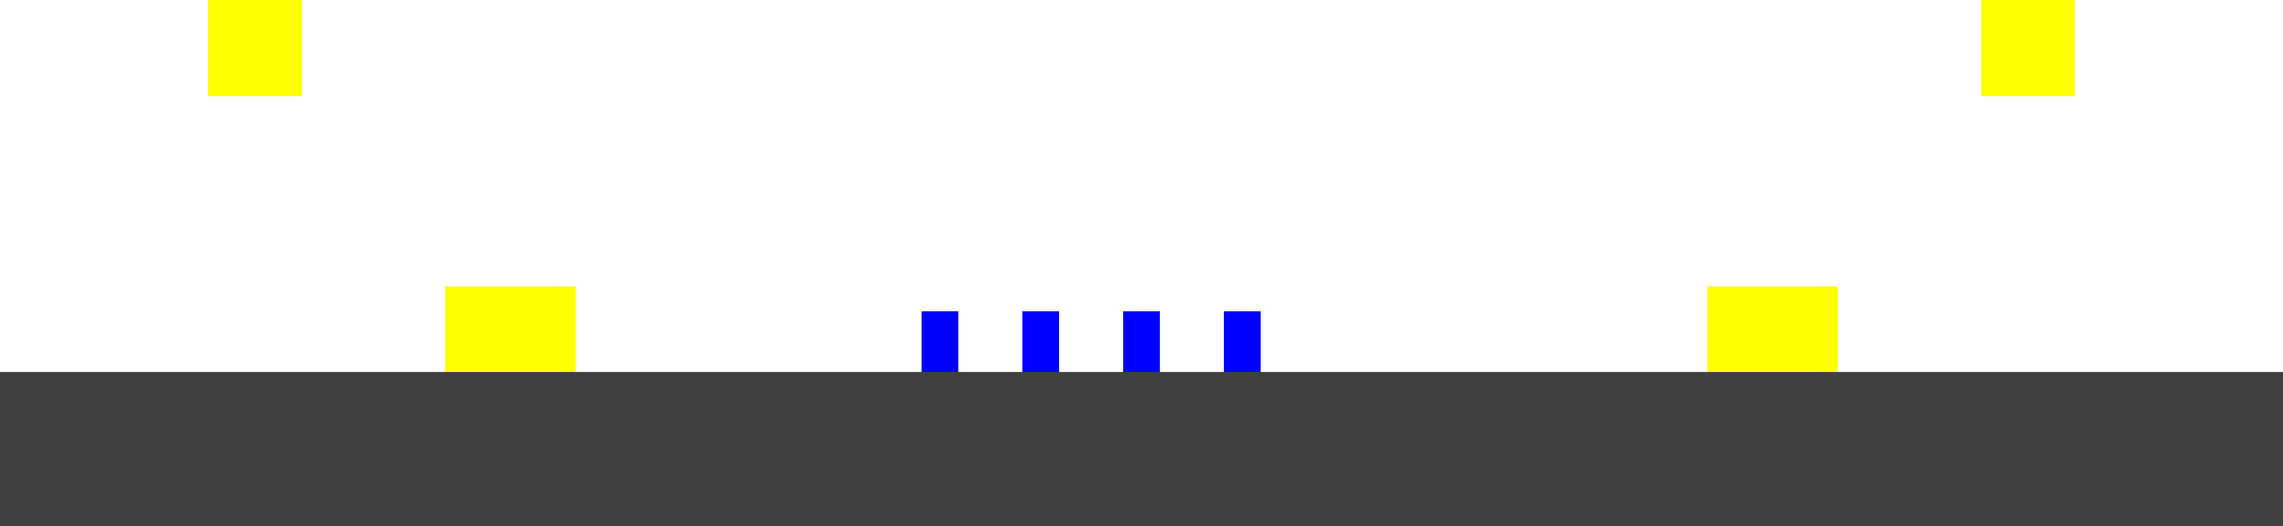
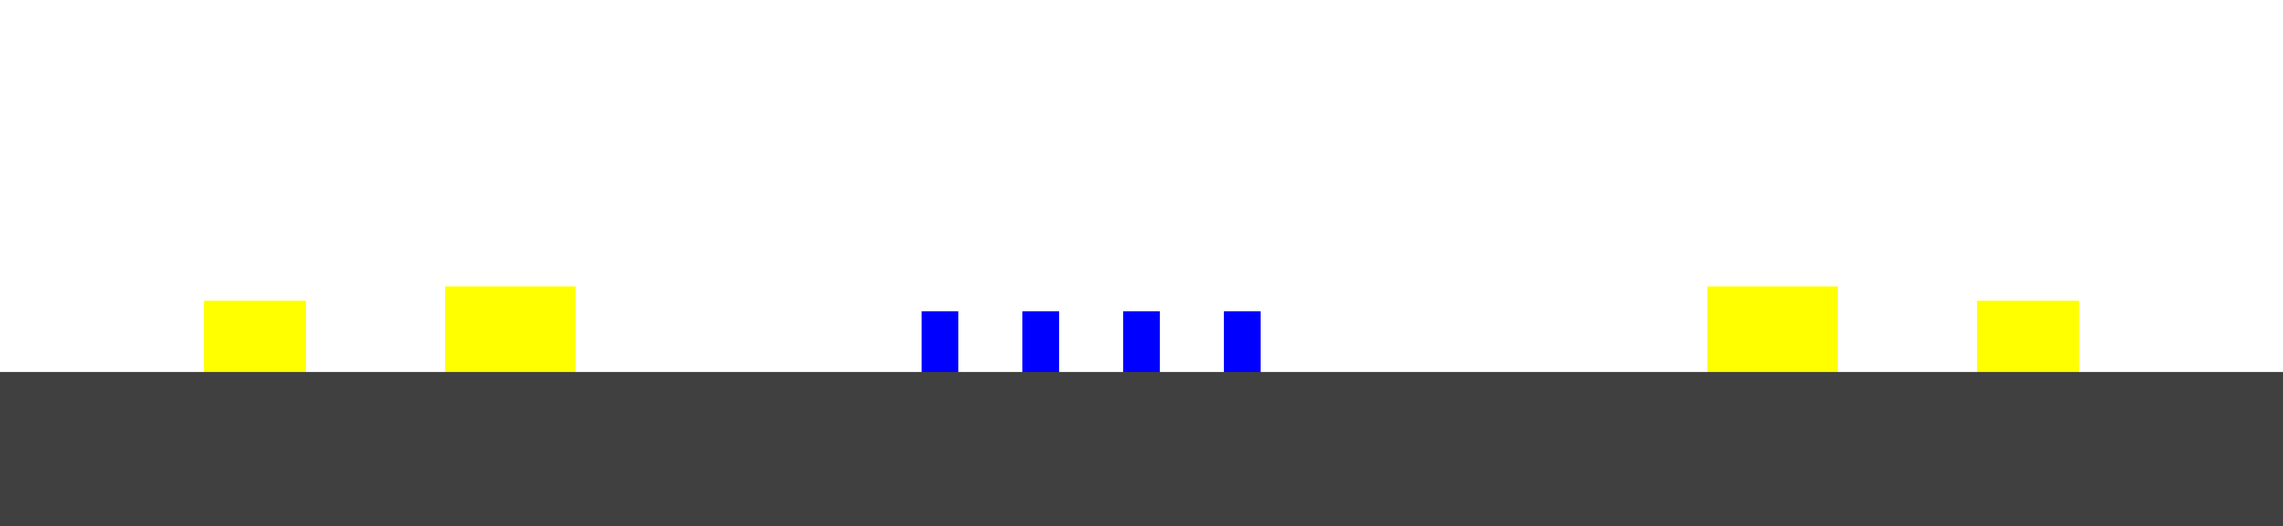
Kor Orsu: Ejder Topu +0..+12 dovulur (cekic oyunu, koruk kumari, dusme, catlama, Anka Muhru, onarim, usta isi); topcu hasari ve cani kademeyle artar; kopruden ucan engerekler kalkti, yerine kucuk yer yilani

diff --git a/eo2/js/ors.js b/eo2/js/ors.js
@@ -1,0 +1,87 @@
+/* Ejder Ocağı 2.0 · Kor Örsü (EO2.ors) · 2026-11-17
+   Usta Kerim'in örsünde terbiyecinin Ejder Topu dövülür. Kurallar ve sayılar js/ors_kural.js'tedir (EO2_ORS); bu dosya ekranı ve çekiç oyununu kurar.
+   AKIŞ: bedel peşin ödenir (kor taşı + altın) → TAV: ibre kor çubuğunda gidip gelir, üç çekiç darbesi indirilir (düğme ya da boşluk tuşu) →
+     örs kararını verir (davul sesi, kıvılcım) → sonuç damgası: tuttu / usta işi (+2) / kayıpsız / kademe düştü / TOP ÇATLADI / Anka korudu.
+   Kumar: "Körüğe yüklen" ibreyi hızlandırır; altın kor daha çok kazandırır, soğuk darbe daha çok götürür.
+   Kayıt: S.ors = { kademe, catlak, deneme, zirve }. Kor taşları Topçu ganimetindedir (S.topcu.ganimet); altın S.gold'dan düşer
+   (tezgâh alışverişiyle aynı yol: js/ag.js keseyi sunucuyla eşitler). Topçunun hasarı ve canı kademeye göre artar (js/topcu.js oyuncuDeger).
+   Girişler: Gece Çarşısı → Usta Kerim'in tezgâhı → "Kor Örsü" · Usta Kerim'le konuşunca "Örse bak". */
+(function () {
+  'use strict';
+  const EO2 = window.EO2, G = EO2 && EO2.game, K = window.EO2_ORS;
+  if (!EO2 || !G || !K) return;
+  const esc_ = s => String(s == null ? '' : s).replace(/[&<>"]/g, c => ({ '&': '&amp;', '<': '&lt;', '>': '&gt;', '"': '&quot;' }[c]));
+  const TAS_AD = { kor_t1: 'Kıvılcım Kor Taşı', kor_t2: 'Harlı Kor Taşı', kor_t3: 'Kadim Magma Taşı', anka_koruma: 'Anka Mühür Taşı' };
+  const BOLGE = { guvenli: ['Güvenli kademe', 'Tutmazsa kayıp yok.'], harli: ['Harlı kademe', 'Tutmazsa bir kademe düşer.'], cehennem: ['Cehennem kademesi', 'Tutmazsa top çatlar!'] };
+  const D = () => { S.ors = S.ors && typeof S.ors === 'object' ? S.ors : {}; const d = S.ors; d.kademe = Math.max(0, Math.min(K.EN_COK, d.kademe | 0)); d.catlak = !!d.catlak; d.deneme = d.deneme | 0; d.zirve = Math.max(d.zirve | 0, d.kademe); return d; };
+  const heybe = () => { S.topcu = S.topcu || {}; S.topcu.ganimet = S.topcu.ganimet || {}; return S.topcu.ganimet; };
+  const var_ = k => Math.max(0, heybe()[k] | 0), ses = (k, v) => { const a = EO2.audio; try { if (a && a[k]) a[k](v); } catch (_) { } };
+  const kaydet = () => { if (typeof saveGame === 'function') saveGame(); if (G.hud) G.hud(); };
+  const yuzde = k => Math.round(k * K.ARTIS * 100);
+  const U = { faz: 'bos', vuruslar: [], koruk: false, anka: false, t0: 0, raf: 0, son: null, kademe0: 0 };   // ekranın geçici durumu
+
+  /* ---------- kurallar: bedel, deneme, onarım ---------- */
+  const yeter = s => !!s && var_(s.tas) >= s.adet && S.gold >= s.altin;
+  const ankaGerek = s => !!s && s.bolge !== 'guvenli';
+  function ode(s, anka) { heybe()[s.tas] = var_(s.tas) - s.adet; S.gold -= s.altin; if (anka) heybe().anka_koruma = var_('anka_koruma') - 1; D().deneme++; kaydet(); }
+  function uygula(r) { const d = D(); d.kademe = r.kademe; d.catlak = r.catlak; d.zirve = Math.max(d.zirve, d.kademe); kaydet(); }
+  /* denemeyi oyunsuz, verilen darbe ve zarla işler (denetim betikleri ve hızlı kip için) */
+  function dene(o) { o = o || {}; const d = D(), s = K.sira(d.kademe); if (d.catlak || !s || !yeter(s)) return null; const anka = !!o.anka && ankaGerek(s) && var_('anka_koruma') > 0;
+    ode(s, anka); const r = K.sonuc(d.kademe, { vuruslar: o.vuruslar || [], koruk: !!o.koruk, anka, zar: typeof o.zar === 'number' ? o.zar : Math.random() * 100 }); uygula(r); return r; }
+  function onar() { const d = D(), O = K.ONARIM; if (!d.catlak || var_(O.tas) < O.adet || S.gold < O.altin) return false; heybe()[O.tas] = var_(O.tas) - O.adet; S.gold -= O.altin; d.kademe = K.onarilmis(d.kademe); d.catlak = false; kaydet(); return true; }
+
+  /* ---------- ekran ---------- */
+  const ibre = () => { const tur = K.TAV[U.koruk ? 'koruk' : 'olagan'].tur, f = ((performance.now() - U.t0) / tur) % 2; return 1 - Math.abs(f - 1); };
+  const resim = k => G.url('img/ui/items/stone_' + k + '.webp');
+  const SONUC = { tuttu: ['Tuttu!', 'iyi'], usta: ['Usta işi!', 'usta'], kayipsiz: ['Tutmadı', 'soluk'], dustu: ['Kademe düştü', 'kotu'], catladi: ['Top çatladı!', 'felaket'], anka: ['Anka korudu', 'anka'] };
+  function ekran() { const d = D(), s = K.sira(d.kademe), h = heybe(), sans0 = s ? K.sans(d.kademe, U.faz === 'tav' ? U.vuruslar : [], U.koruk) : 0, b = s && BOLGE[s.bolge];
+    const taslar = K.TAS.map(k => '<span class="or-tas' + (s && s.tas === k ? ' gerek' + (var_(k) >= s.adet ? '' : ' eksik') : '') + '" title="' + TAS_AD[k] + '"><img alt="" src="' + resim(k) + '"><b>' + var_(k) + '</b><small>' + TAS_AD[k] + '</small></span>').join('');
+    const darbeler = [0, 1, 2].map(i => '<i class="or-darbe ' + (U.vuruslar[i] || '') + '"></i>').join('');
+    let eylem = '';
+    if (U.faz === 'tav') eylem = '<button type="button" class="gbtn altin buyuk or-vur" data-or="vur">Çekici indir<small>' + (3 - U.vuruslar.length) + ' darbe kaldı · boşluk tuşu</small></button>';
+    else if (U.faz === 'karar') eylem = '<p class="or-bekle">Örs kararını veriyor…</p>';
+    else if (U.faz === 'sonuc') eylem = '<button type="button" class="gbtn altin buyuk" data-or="tamam">Devam</button>';
+    else if (d.catlak) { const O = K.ONARIM, ok = var_(O.tas) >= O.adet && S.gold >= O.altin; eylem = '<p class="or-uyari">Top çatlak: kademesi işlemiyor. Onarılınca <b>+' + K.onarilmis(d.kademe) + '</b> kademede döner.</p><button type="button" class="gbtn altin buyuk" data-or="onar" ' + (ok ? '' : 'disabled') + '>Topu onar<small>' + O.altin + ' altın · ' + O.adet + ' ' + TAS_AD[O.tas] + (ok ? '' : ' · yetmiyor') + '</small></button>'; }
+    else if (!s) eylem = '<p class="or-zirve">Zirve kademesi. Bu top artık dövülmez; yalnız parlar.</p>';
+    else eylem = '<div class="or-ayar"><label class="or-sec' + (U.koruk ? ' acik' : '') + '"><input type="checkbox" data-or-sec="koruk" ' + (U.koruk ? 'checked' : '') + '><span><b>Körüğe yüklen</b><small>İbre hızlanır. Altın kor +' + K.TAV.koruk.altin + ', soğuk darbe ' + K.TAV.koruk.soguk + '.</small></span></label>' +
+        (ankaGerek(s) ? '<label class="or-sec' + (U.anka ? ' acik' : '') + (var_('anka_koruma') ? '' : ' yok') + '"><input type="checkbox" data-or-sec="anka" ' + (U.anka ? 'checked' : '') + ' ' + (var_('anka_koruma') ? '' : 'disabled') + '><span><b>Anka Mührü bas</b><small>' + (var_('anka_koruma') ? 'Bir mühür harcanır. Tutmazsa kademe düşmez, top çatlamaz.' : 'Mührün yok. Zindan çarklarından düşer.') + '</small></span></label>' : '') + '</div>' +
+      '<button type="button" class="gbtn altin buyuk" data-or="basla" ' + (yeter(s) ? '' : 'disabled') + '>Dövmeye başla<small>' + s.adet + ' ' + TAS_AD[s.tas] + ' · ' + s.altin + ' altın' + (yeter(s) ? '' : ' · yetmiyor') + '</small></button>';
+    const sn = U.son && SONUC[U.son.olay];
+    return '<div class="or-kok faz-' + U.faz + (d.catlak ? ' catlak' : '') + (s ? ' b-' + s.bolge : ' zirve') + '">' +
+      '<div class="or-sol"><div class="or-top k' + (d.kademe >= 12 ? 3 : d.kademe >= 7 ? 2 : d.kademe >= 4 ? 1 : 0) + '" id="orTop"><img alt="" src="assets/ik/mdl-ors.webp"><b>+' + d.kademe + '</b>' + (d.catlak ? '<em>ÇATLAK</em>' : '') + '</div>' +
+        '<h2>' + esc_(K.AD(d.kademe)) + '</h2><p class="or-etki">' + (d.catlak ? 'Çatlak: artış işlemiyor' : d.kademe ? 'Topçu hasarı ve canı <b>+%' + yuzde(d.kademe) + '</b>' : 'Henüz dövülmedi') + '</p>' +
+        '<div class="or-taslar">' + taslar + '</div><p class="or-kaynak">Kor taşları ve Anka Mührü zindan ganimetinden çıkar.</p></div>' +
+      '<div class="or-sag">' + (s && !d.catlak ? '<div class="or-hedef"><small>Sıradaki kademe</small><b>+' + d.kademe + ' <i>➔</i> +' + (d.kademe + 1) + '</b><span>Hasar ve can +%' + yuzde(d.kademe + 1) + '</span></div>' +
+          '<div class="or-risk"><b>' + b[0] + '</b><span>' + b[1] + '</span></div>' +
+          '<div class="or-sans"><small>Tutma şansı</small><b id="orSans">%' + sans0 + '</b><div class="or-cubuk"><i style="width:' + sans0 + '%"></i></div></div>' : '') +
+        '<div class="or-tav" id="orTav"><div class="or-kor"><i class="sicak"></i><i class="altin"></i><u id="orIbre"></u></div><div class="or-darbeler">' + darbeler + '</div></div>' +
+        '<div class="or-eylem">' + eylem + '</div></div>' +
+      (U.faz === 'sonuc' && sn ? '<div class="or-damga ' + sn[1] + '"><b>' + sn[0] + '</b><span>' + sonucYazi(U.son) + '</span></div>' : '') + '</div>'; }
+  const sonucYazi = r => r.olay === 'usta' ? 'Üç darbe de altın kora indi: top iki kademe birden yükseldi, +' + r.kademe + '.' : r.olay === 'tuttu' ? 'Top +' + r.kademe + ' kademeye yükseldi.' : r.olay === 'kayipsiz' ? 'Metal tutmadı. Güvenli kademede kayıp yok; taş ve altın gitti.' : r.olay === 'dustu' ? 'Metal çatırdadı: top +' + r.kademe + ' kademeye geriledi.' : r.olay === 'anka' ? 'Metal tutmadı ama Anka Mührü topu korudu: +' + r.kademe + ' kademede kaldı.' : 'Örs acımadı. Top çatladı: onarılana dek kademesi işlemez.';
+  function basla() { const d = D(), s = K.sira(d.kademe); if (U.faz !== 'bos' || d.catlak || !yeter(s)) return; U.anka = U.anka && ankaGerek(s) && var_('anka_koruma') > 0; U.kademe0 = d.kademe;
+    ode(s, U.anka); U.faz = 'tav'; U.vuruslar = []; U.t0 = performance.now(); U.son = null; ses('charge', 0.6); G.redraw(); dongu(); }
+  function dongu() { cancelAnimationFrame(U.raf); const adim = () => { const el = document.getElementById('orIbre'); if (!el || U.faz !== 'tav') return; el.style.left = (ibre() * 100) + '%'; U.raf = requestAnimationFrame(adim); }; U.raf = requestAnimationFrame(adim); }
+  function vur() { if (U.faz !== 'tav' || U.vuruslar.length >= 3) return; const v = K.vurus(ibre()); U.vuruslar.push(v); ses(v === 'altin' ? 'chime' : v === 'sicak' ? 'hit' : 'pop');
+    const top = document.getElementById('orTop'), fx = G.fx; if (fx && top) { fx.burst(top, v === 'altin' ? '#ffe08a' : v === 'sicak' ? '#ff9a4a' : '#9aa0b8', v === 'altin' ? 26 : v === 'sicak' ? 14 : 6); if (v !== 'soguk') fx.shake(document.querySelector('.or-kok'), v === 'altin'); }
+    if (U.vuruslar.length < 3) { U.t0 = performance.now() - Math.random() * 400; G.redraw(); dongu(); return; }
+    U.faz = 'karar'; G.redraw(); ses('whoosh'); setTimeout(karar, window.__fastFx ? 60 : 1100); }
+  function karar() { if (U.faz !== 'karar') return; const zar = typeof window.__orsZar === 'number' ? window.__orsZar : Math.random() * 100;
+    const r = K.sonuc(U.kademe0, { vuruslar: U.vuruslar, koruk: U.koruk, anka: U.anka, zar }); uygula(r); U.son = r; U.faz = 'sonuc'; G.redraw();
+    const fx = G.fx, top = document.getElementById('orTop');
+    if (r.tuttu) { ses('win', true); if (fx && top) { fx.burst(top, '#ffe08a', r.usta ? 70 : 40); fx.flash(r.usta ? 'rgba(255,224,138,.5)' : 'rgba(255,240,200,.3)'); if (r.usta) fx.shake(document.querySelector('.or-kok'), true); } if (typeof chron === 'function' && (r.kademe === 7 || r.kademe === 10 || r.kademe === 12)) chron('Ejder Topu +' + r.kademe + ' kademeye dövüldü.'); }
+    else if (r.olay === 'catladi') { ses('boom', 0.9); ses('win', false); if (fx && top) { fx.burst(top, '#ff5a3a', 60); fx.flash('rgba(255,70,40,.4)'); fx.shake(document.querySelector('.or-kok'), true); } }
+    else if (r.olay === 'anka') { ses('chime'); if (fx && top) { fx.burst(top, '#ffb3cc', 36); fx.flash('rgba(255,200,220,.3)'); } }
+    else ses('pop'); }
+  function tamam() { U.faz = 'bos'; U.vuruslar = []; U.son = null; U.anka = false; G.redraw(); }
+  addEventListener('keydown', e => { if (G.ekran && G.ekran() === 'ors' && (e.code === 'Space' || e.key === ' ') && U.faz === 'tav') { e.preventDefault(); e.stopPropagation(); vur(); } }, true);
+
+  G.screen('ors', { k: 'Usta Kerim', t: 'Kor Örsü', cls: 'or', bg: 'bg-pazar', enter() { if (U.faz !== 'tav' && U.faz !== 'karar') { U.faz = 'bos'; U.vuruslar = []; U.son = null; } }, draw(body) {
+    body.innerHTML = ekran();
+    body.querySelectorAll('[data-or]').forEach(b => b.addEventListener('click', () => { const k = b.dataset.or; if (k === 'basla') basla(); else if (k === 'vur') vur(); else if (k === 'tamam') { ses('ui'); tamam(); } else if (k === 'onar') { if (onar()) { ses('chime'); G.toast('Top onarıldı: +' + D().kademe + ' kademe.'); } G.redraw(); } }));
+    body.querySelectorAll('[data-or-sec]').forEach(c => c.addEventListener('change', () => { ses('ui'); U[c.dataset.orSec] = c.checked; G.redraw(); }));
+    if (U.faz === 'tav') dongu();
+  } });
+  /* Usta Kerim'le konuşunca çıkan "Örse bak" ve dünyadaki üretim eylemi örsü açar */
+  (function bagla() { if (!EO2.hooks || !EO2.hooks.act) return setTimeout(bagla, 150); const a0 = EO2.hooks.act; EO2.hooks.act = act => { if (act === 'panel:uretim' || act === 'ors') { G.open('ors'); return true; } return a0 ? a0(act) : false; }; })();
+  EO2.ors = { durum: D, dene, onar, carpan: () => K.carpan(typeof S !== 'undefined' && S ? D() : null), ekranDurumu: () => U };
+})();

diff --git a/eo2/css/cila.css b/eo2/css/cila.css
@@ -363,3 +363,49 @@ html, body, #app.ui2 { overflow: clip; }
 .ui2 .hedef em { display: inline-flex; align-items: center; gap: .3em; min-width: 0; height: auto; padding: .12em .7em .12em .18em; border-radius: 2em; font: 800 1em 'Alegreya Sans', sans-serif; font-style: normal; color: #5a3a12; background: linear-gradient(180deg, #fff7dc, #f0d99a); box-shadow: inset 0 0 0 1.5px rgba(150, 104, 40, .55), 0 .1em .25em rgba(60, 30, 10, .25); transform: none; }
 .ui2 .hedef em::before { content: ""; flex: none; width: 1.75em; height: 1.75em; background: url(../assets/ik/para.webp) center / contain no-repeat; filter: drop-shadow(0 .08em .1em rgba(60, 30, 10, .45)); }
 .ui2 .hedef em::after { content: none; }
+
+/* ---------- Kor Örsü (js/ors.js): solda top ve taşlar, sağda sıradaki kademe, kor çubuğu ve çekiç ---------- */
+.ui2 .scr-b.or { display: grid; grid-template-rows: minmax(0, 1fr); min-height: 0; padding: .6em 1em 1em; }
+.ui2 .or-kok { position: relative; display: grid; grid-template-columns: minmax(0, 22em) minmax(0, 30em); gap: 1.4em; justify-content: center; align-items: center; min-height: 0; height: 100%; }
+.ui2 .or-sol, .ui2 .or-sag { display: grid; gap: .7em; align-content: center; justify-items: center; padding: 1.1em 1.3em; border-radius: 1.4em; background: var(--cam-koyu, rgba(14, 20, 48, .86)); box-shadow: var(--frame); max-height: 100%; min-height: 0; overflow-y: auto; }
+.ui2 .or-sag { justify-items: stretch; }
+.ui2 .or-top { position: relative; width: 11em; height: 11em; display: grid; place-items: center; border-radius: 50%; background: radial-gradient(circle at 50% 60%, rgba(255, 140, 50, .55), rgba(60, 20, 10, .2) 62%, transparent 72%); }
+.ui2 .or-top img { width: 8em; height: 8em; object-fit: contain; filter: drop-shadow(0 .5em .7em rgba(4, 6, 16, .7)); }
+.ui2 .or-top b { position: absolute; right: .2em; bottom: .4em; padding: .05em .45em; border-radius: 1em; font: 800 1.9em var(--f-ui); color: #3a2206; background: linear-gradient(180deg, #fff3c4, #f0b84a); box-shadow: 0 0 0 2px rgba(8, 10, 20, .85), 0 .2em .5em rgba(4, 6, 16, .5); }
+.ui2 .or-top.k1 { background: radial-gradient(circle at 50% 60%, rgba(255, 170, 60, .7), rgba(90, 30, 10, .25) 62%, transparent 74%); } .ui2 .or-top.k2 { background: radial-gradient(circle at 50% 60%, rgba(255, 110, 40, .85), rgba(140, 30, 10, .35) 62%, transparent 76%); animation: or-kor 1.6s ease-in-out infinite; }
+.ui2 .or-top.k3 { background: radial-gradient(circle at 50% 60%, rgba(255, 220, 120, .95), rgba(255, 90, 30, .5) 55%, transparent 78%); animation: or-kor 1.1s ease-in-out infinite; }
+@keyframes or-kor { 50% { filter: brightness(1.25); transform: scale(1.03); } }
+.ui2 .or-top em { position: absolute; left: 50%; top: 42%; transform: translate(-50%, -50%) rotate(-12deg); padding: .1em .6em; font: 800 1.1em var(--f-ui); font-style: normal; letter-spacing: .12em; color: #fff; background: #b0281a; border-radius: .3em; box-shadow: 0 0 0 2px #fff, 0 .2em .5em rgba(0, 0, 0, .5); }
+.ui2 .or-kok.catlak .or-top img { filter: grayscale(.8) brightness(.6); }
+.ui2 .or-sol h2 { margin: 0; font: 800 1.5em var(--f-ui); color: #f6d98a; text-align: center; } .ui2 .or-etki { margin: 0; font: 500 1em var(--f-ui); color: #e9ecfb; text-align: center; } .ui2 .or-etki b { color: #b8f0a0; }
+.ui2 .or-taslar { display: grid; grid-template-columns: repeat(4, minmax(0, 1fr)); gap: .4em; width: 100%; }
+.ui2 .or-tas { display: grid; justify-items: center; gap: .1em; padding: .35em .2em; border-radius: .8em; background: rgba(8, 14, 40, .55); box-shadow: inset 0 0 0 1px rgba(160, 190, 255, .25); text-align: center; }
+.ui2 .or-tas img { width: 2.4em; height: 2.4em; object-fit: contain; } .ui2 .or-tas b { font: 800 1.05em var(--f-ui); } .ui2 .or-tas small { font: 500 .62em/1.15 var(--f-ui); color: #cfd8f6; }
+.ui2 .or-tas.gerek { box-shadow: inset 0 0 0 2px #ffe08a, 0 0 .8em rgba(255, 215, 106, .45); } .ui2 .or-tas.gerek.eksik { box-shadow: inset 0 0 0 2px #ff9a8a; } .ui2 .or-tas.gerek.eksik b { color: #ffb0a0; }
+.ui2 .or-hedef { display: grid; justify-items: center; gap: .1em; } .ui2 .or-hedef small, .ui2 .or-sans small { font: 700 .78em var(--f-ui); letter-spacing: .12em; text-transform: uppercase; color: #f6d98a; }
+.ui2 .or-hedef b { font: 800 2.1em var(--f-ui); } .ui2 .or-hedef b i { font-style: normal; color: #f6d98a; } .ui2 .or-hedef span { font: 500 .95em var(--f-ui); color: #b8f0a0; }
+.ui2 .or-risk { display: grid; justify-items: center; padding: .4em .8em; border-radius: .9em; background: rgba(60, 160, 90, .22); box-shadow: inset 0 0 0 1px rgba(140, 240, 170, .5); text-align: center; } .ui2 .or-risk b { font: 700 1em var(--f-ui); } .ui2 .or-risk span { font: 500 .88em var(--f-ui); }
+.ui2 .b-harli .or-risk { background: rgba(200, 130, 30, .25); box-shadow: inset 0 0 0 1px rgba(255, 200, 110, .6); } .ui2 .b-cehennem .or-risk { background: rgba(190, 40, 30, .32); box-shadow: inset 0 0 0 1.5px rgba(255, 120, 100, .8); animation: or-nabiz 1.2s ease-in-out infinite; }
+@keyframes or-nabiz { 50% { box-shadow: inset 0 0 0 1.5px rgba(255, 120, 100, .9), 0 0 1.2em rgba(255, 70, 40, .55); } }
+.ui2 .or-sans { display: grid; grid-template-columns: 1fr auto; align-items: center; gap: .2em .6em; } .ui2 .or-sans b { font: 800 1.5em var(--f-ui); color: #fff; } .ui2 .or-cubuk { grid-column: 1 / -1; height: .6em; border-radius: 1em; background: rgba(8, 14, 40, .7); overflow: hidden; } .ui2 .or-cubuk i { display: block; height: 100%; border-radius: 1em; background: linear-gradient(90deg, #ff6a3a, #ffd24a, #8ff0a4); transition: width .25s; }
+.ui2 .or-tav { display: grid; gap: .5em; opacity: .45; transition: opacity .2s; } .ui2 .faz-tav .or-tav, .ui2 .faz-karar .or-tav, .ui2 .faz-sonuc .or-tav { opacity: 1; }
+.ui2 .or-kor { position: relative; height: 2.2em; border-radius: 1.1em; background: linear-gradient(90deg, #232a4a, #3a2a3a 28%, #7a2a1a 50%, #3a2a3a 72%, #232a4a); box-shadow: inset 0 0 0 2px rgba(8, 10, 20, .85), inset 0 0 0 3.5px rgba(255, 226, 150, .3); overflow: hidden; }
+.ui2 .or-kor .sicak { position: absolute; top: 0; bottom: 0; left: 30%; width: 40%; background: linear-gradient(90deg, rgba(255, 140, 50, .35), rgba(255, 140, 50, .7), rgba(255, 140, 50, .35)); }
+.ui2 .or-kor .altin { position: absolute; top: 0; bottom: 0; left: 42%; width: 16%; background: linear-gradient(180deg, #fff3c4, #ffc84a); box-shadow: 0 0 1em rgba(255, 215, 106, .9); }
+.ui2 .or-kor u { position: absolute; top: -.2em; bottom: -.2em; left: 0; width: .45em; margin-left: -.22em; border-radius: .3em; background: #fff; box-shadow: 0 0 0 2px rgba(8, 10, 20, .9), 0 0 .8em #fff; text-decoration: none; }
+.ui2 .or-darbeler { display: flex; justify-content: center; gap: .6em; } .ui2 .or-darbe { width: 1.5em; height: 1.5em; border-radius: 50%; background: rgba(8, 14, 40, .7); box-shadow: inset 0 0 0 2px rgba(160, 190, 255, .35); }
+.ui2 .or-darbe.altin { background: radial-gradient(circle at 40% 30%, #fff3c4, #f0b84a); box-shadow: 0 0 .9em rgba(255, 215, 106, .9); } .ui2 .or-darbe.sicak { background: radial-gradient(circle at 40% 30%, #ffc08a, #e0662a); } .ui2 .or-darbe.soguk { background: #5a6280; }
+.ui2 .or-eylem { display: grid; gap: .5em; } .ui2 .or-eylem .gbtn { display: grid; justify-items: center; gap: .1em; height: auto; min-height: 3.2em; padding: .5em 1em; white-space: normal; line-height: 1.15; } .ui2 .or-eylem .gbtn small { display: block; white-space: normal; }
+.ui2 .or-vur { animation: or-nabiz2 .7s ease-in-out infinite; } @keyframes or-nabiz2 { 50% { transform: scale(1.03); } }
+.ui2 .or-ayar { display: grid; gap: .35em; } .ui2 .or-sec { display: grid; grid-template-columns: auto 1fr; gap: .5em; align-items: center; padding: .35em .6em; border-radius: .8em; background: rgba(8, 14, 40, .5); box-shadow: inset 0 0 0 1px rgba(160, 190, 255, .25); cursor: pointer; }
+.ui2 .or-sec input { width: 1.2em; height: 1.2em; } .ui2 .or-sec b { display: block; font: 700 .95em var(--f-ui); } .ui2 .or-sec small { font: 500 .78em/1.2 var(--f-ui); color: #cfd8f6; } .ui2 .or-sec.acik { box-shadow: inset 0 0 0 2px #ffe08a; } .ui2 .or-sec.yok { opacity: .6; cursor: default; }
+.ui2 .or-bekle, .ui2 .or-zirve, .ui2 .or-uyari { margin: 0; text-align: center; font: 600 1em var(--f-ui); } .ui2 .or-bekle { color: #f6d98a; animation: or-nabiz2 .5s ease-in-out infinite; } .ui2 .or-uyari { color: #ffc4b0; }
+.ui2 .or-kaynak { margin: 0; font: 500 .78em var(--f-ui); color: #cfd8f6; text-align: center; grid-column: 1 / -1; }
+.ui2 .or-damga { position: absolute; left: 50%; top: 24%; z-index: 4; transform: translate(-50%, -50%) rotate(-6deg); display: grid; justify-items: center; gap: .2em; max-width: 24em; padding: .7em 1.4em; border-radius: .6em; text-align: center; background: rgba(14, 20, 48, .94); box-shadow: 0 0 0 3px #f6d98a, 0 0 0 6px rgba(8, 10, 20, .85), 0 .6em 2em rgba(0, 0, 0, .6); animation: or-damga .45s cubic-bezier(.2, 1.6, .4, 1) both; pointer-events: none; }
+.ui2 .or-damga b { font: 800 2.2em var(--f-ui); color: #f6d98a; } .ui2 .or-damga span { font: 500 .95em/1.3 var(--f-ui); color: #e9ecfb; }
+.ui2 .or-damga.usta { box-shadow: 0 0 0 3px #fff3c4, 0 0 0 6px rgba(8, 10, 20, .85), 0 0 3em rgba(255, 215, 106, .9); } .ui2 .or-damga.usta b { color: #fff3c4; }
+.ui2 .or-damga.kotu b, .ui2 .or-damga.felaket b { color: #ff9a8a; } .ui2 .or-damga.felaket { box-shadow: 0 0 0 3px #ff6a4a, 0 0 0 6px rgba(8, 10, 20, .85), 0 0 3em rgba(255, 70, 40, .8); } .ui2 .or-damga.anka b { color: #ffb3cc; } .ui2 .or-damga.soluk b { color: #cfd8f6; }
+@keyframes or-damga { from { transform: translate(-50%, -50%) rotate(-6deg) scale(2.2); opacity: 0; } }
+.ui2 .pz-ors { position: absolute; right: 0; top: 0; z-index: 3; display: grid; justify-items: center; gap: .1em; height: auto; padding: .45em 1.1em; line-height: 1.15; } .ui2 .pz-ors small { display: block; }
+@media (max-width: 760px), (max-aspect-ratio: 1/1) { .ui2 .or-kok { grid-template-columns: minmax(0, 1fr); grid-template-rows: auto minmax(0, 1fr); align-items: stretch; gap: .6em; } .ui2 .or-top { width: 6.5em; height: 6.5em; } .ui2 .or-top img { width: 4.6em; height: 4.6em; } .ui2 .or-top b { font-size: 1.3em; } .ui2 .or-sol { grid-template-columns: auto 1fr; justify-items: start; } .ui2 .or-taslar { grid-column: 1 / -1; } .ui2 .or-sol h2, .ui2 .or-etki { text-align: left; } }
+@media (max-height: 520px) { .ui2 .or-kok { grid-template-columns: minmax(0, 15em) minmax(0, 1fr); gap: .7em; } .ui2 .or-sol, .ui2 .or-sag { padding: .5em .7em; gap: .35em; font-size: .86em; } .ui2 .or-top { width: 6em; height: 6em; } .ui2 .or-top img { width: 4.2em; height: 4.2em; } .ui2 .or-top b { font-size: 1.2em; } .ui2 .or-tas small { display: none; } .ui2 .or-hedef b { font-size: 1.4em; } }

diff --git a/eo2/js/ors_kural.js b/eo2/js/ors_kural.js
@@ -1,0 +1,47 @@
+/* Ejder Ocağı 2.0 · Kor Örsü kuralları (2026-11-17)
+   Kullanıcı: "örs sistemini baştan, eğlenceli, heyecanlı ve riskli olacak şekilde kur."
+   Yalnız kural ve sayı; ekran js/ors.js'tedir. Dosya hem oyunda hem testte (Node) yüklenir.
+
+   NE DÖVÜLÜR: terbiyecinin Ejder Topu. Kademe +0'dan +12'ye çıkar; her kademe topçunun hasarını ve canını yüzde 2 artırır
+   (zindan, düello, Takım Meydanı). Top çatlamışsa bu artış işlemez.
+
+   BEDEL (eski oyunun birinci kademe eşya tablosuyla aynı sayılar): her denemede kor taşı ve altın peşin ödenir; deneme tutmasa da geri gelmez.
+   BÖLGELER:
+     +0 → +4   Güvenli   tutmazsa kayıp yok
+     +4 → +7   Harlı     tutmazsa bir kademe düşer
+     +7 → +12  Cehennem  tutmazsa top ÇATLAR: artış durur; onarılınca dört kademe geride döner
+   ANKA MÜHÜR TAŞI: denemeye basılırsa (bir taş harcanır) tutmayan denemede kademe düşmez, top çatlamaz.
+   TAV (çekiç oyunu): üç çekiç darbesi. Her darbe ibrenin durduğu yere göre şansı değiştirir:
+     altın kor +5 · sıcak +2 · soğuk −3.   Körüğe yüklenilirse ibre hızlanır, altın kor +9 olur, soğuk −6 (kumar).
+   USTA İŞİ: üç darbe de altın kora denk gelir ve deneme tutarsa kademe bir yerine İKİ artar (bölge sınırını aşabilir, +12'yi aşamaz).
+   ONARIM: çatlak top altın ve kıvılcım kor taşıyla onarılır; kademe dört düşer (en az +4'e, çünkü çatlama yalnız +7 ve üstünde olur). */
+(function (kok) {
+  'use strict';
+  const EN_COK = 12, ARTIS = 0.02;
+  const TAS = ['kor_t1', 'kor_t2', 'kor_t3', 'anka_koruma'];
+  /* sıradaki denemenin bedeli, tabandaki şansı ve bölgesi; +12'de null */
+  function sira(k) { k = Math.max(0, Math.min(EN_COK, k | 0)); if (k >= EN_COK) return null;
+    if (k < 4) return { kademe: k, tas: 'kor_t1', adet: [3, 6, 10, 16][k], altin: [40, 80, 140, 220][k], sans: [100, 95, 90, 82][k], bolge: 'guvenli' };
+    if (k < 7) return { kademe: k, tas: 'kor_t2', adet: [5, 9, 14][k - 4], altin: [320, 480, 680][k - 4], sans: [70, 58, 46][k - 4], bolge: 'harli' };
+    return { kademe: k, tas: k === 7 ? 'kor_t2' : 'kor_t3', adet: k === 7 ? 20 : [6, 11, 18, 28][k - 8], altin: [950, 1300, 1800, 2500, 3500][k - 7], sans: [36, 26, 18, 12, 8][k - 7], bolge: 'cehennem' }; }
+  const ONARIM = { altin: 600, tas: 'kor_t1', adet: 12, geri: 4, taban: 4 };
+  const TAV = { olagan: { altin: 5, sicak: 2, soguk: -3, tur: 640 }, koruk: { altin: 9, sicak: 2, soguk: -6, tur: 400 } };
+  const ALTIN = [0.42, 0.58], SICAK = [0.30, 0.70];   // ibrenin 0–1 arasındaki yeri
+  const vurus = yer => (yer >= ALTIN[0] && yer <= ALTIN[1] ? 'altin' : yer >= SICAK[0] && yer <= SICAK[1] ? 'sicak' : 'soguk');
+  const tavPuani = (vuruslar, koruk) => vuruslar.reduce((t, v) => t + TAV[koruk ? 'koruk' : 'olagan'][v], 0);
+  const sans = (k, vuruslar, koruk) => { const s = sira(k); return s ? Math.max(1, Math.min(100, s.sans + tavPuani(vuruslar || [], koruk))) : 0; };
+  /* denemenin sonucu. zar: 0–100 arası sayı (şanstan küçükse tutar). Dönen: { tuttu, usta, kademe, catlak, anka (harcandı mı), olay } */
+  function sonuc(k, o) { const s = sira(k), v = (o && o.vuruslar) || []; if (!s) return null;
+    const esik = sans(k, v, o && o.koruk), tuttu = (o && o.zar) < esik, usta = tuttu && v.length === 3 && v.every(x => x === 'altin');
+    if (tuttu) return { tuttu: true, usta, kademe: Math.min(EN_COK, k + (usta ? 2 : 1)), catlak: false, anka: false, sans: esik, olay: usta ? 'usta' : 'tuttu' };
+    if (s.bolge === 'guvenli') return { tuttu: false, usta: false, kademe: k, catlak: false, anka: false, sans: esik, olay: 'kayipsiz' };
+    if (o && o.anka) return { tuttu: false, usta: false, kademe: k, catlak: false, anka: true, sans: esik, olay: 'anka' };
+    if (s.bolge === 'harli') return { tuttu: false, usta: false, kademe: k - 1, catlak: false, anka: false, sans: esik, olay: 'dustu' };
+    return { tuttu: false, usta: false, kademe: k, catlak: true, anka: false, sans: esik, olay: 'catladi' }; }
+  const onarilmis = k => Math.max(ONARIM.taban, k - ONARIM.geri);
+  /* topçu değerlerine çarpan: çatlak top artış vermez */
+  const carpan = d => 1 + (d && !d.catlak ? Math.max(0, Math.min(EN_COK, d.kademe | 0)) : 0) * ARTIS;
+  const AD = k => (k >= 12 ? 'Kadim Magma Topu' : k >= 10 ? 'Zümrüt Ejder Topu' : k >= 7 ? 'Kor Ejder Topu' : k >= 4 ? 'Harlı Ejder Topu' : 'Ejder Topu');
+  const K = { EN_COK, ARTIS, TAS, ONARIM, TAV, ALTIN, SICAK, sira, vurus, tavPuani, sans, sonuc, onarilmis, carpan, AD };
+  if (typeof module !== 'undefined' && module.exports) module.exports = K; else kok.EO2_ORS = K;
+})(typeof window !== 'undefined' ? window : this);

diff --git a/eo2/js/arena_veri.js b/eo2/js/arena_veri.js
@@ -4,7 +4,7 @@
   'use strict';
   const ARENA = {
     "zumrut-defile": {"tur":"pve","ad":"Şahmeran'ın Defilesi","alt":"Yılan Kraliçe yükseltide bekliyor","ipucu":"Zemin kırılmaz. Tacına nişan al. Durduğun yere ok yağdırır: her tur yerini değiştir, sonra ateş et.","tema":"sirca","ortam":"spor","sahne":{"ust":"#07201a","alt":"#0a2a20"},"katman":[{"src":"arenalar/zumrut-defile/sahne.webp","z":-1}],"ppu":70,"en":63.7,"boy":17.73,"taban":7.375,"px":[4459,1241],"kameraBoy":6,"kamera":null,"oyuncu":[{"x":3,"y":11.06,"h":1.7,"w":1.03},{"x":5.8,"y":11.06,"h":1.7,"w":1.03},{"x":8.61,"y":11.06,"h":1.7,"w":1.03},{"x":11.43,"y":11.06,"h":1.7,"w":1.03}],"dusman":[{"tip":"zs_agir","ad":"Sırça Taht Muhafızı","hp":640,"fizik":true,"hayalet":false,"x":29.23,"y":11.06,"h":2.4,"w":3.71},{"tip":"zs_agir","ad":"Sırça Taht Muhafızı","hp":640,"fizik":true,"hayalet":false,"x":38.97,"y":11.06,"h":2.4,"w":3.71}],"boss":{"tip":"sahmeran_v3","ad":"Yılan Kraliçe Şahmeran","unvan":"Zümrüt Saray'ın ebedi hükümdarı","hp":3600,"x":51.71,"y":13.03,"h":6.8,"w":6},"maske":[0,30208,2,510,0,2,2,510,0,2,2,510,0,2,2,510,0,2,2,510,0,2,2,510,0,2,2,510,0,2,2,510,0,2,2,510,0,2,2,510,0,2,2,510,0,2,2,510,0,2,2,510,0,2,2,510,0,2,2,510,0,2,2,510,0,2,2,510,0,2,2,510,0,2,2,510,0,2,2,510,0,2,2,510,0,2,2,510,0,2,2,510,0,2,2,510,0,2,2,510,0,2,2,510,0,2,2,510,0,2,2,510,0,2,2,510,0,362,2,150,0,363,2,149,0,364,2,148,0,365,2,147,0,366,2,146,0,367,2,145,0,369,2,143,0,370,2,142,0,371,2,141,0,372,2,140,0,373,2,139,0,374,2,138,0,376,2,136,0,377,2,135,0,378,2,134,0,379,2,133,0,69634]},
-    "zumrut-kopru": {"tur":"pve","ad":"Zümrüt Saray Köprüsü","alt":"Yılanlar iki yandan geliyor","ipucu":"Yılanlar iki yandan gelir. Fareyi çevirdiğin yana döner, o yana ateş edersin. Önce yaklaşanı vur.","tema":"sirca","ortam":"spor","sahne":{"ust":"#6fafFd","alt":"#e8f2fb"},"katman":[{"src":"arenalar/zumrut-kopru/sahne.webp","z":-1}],"ppu":87.647,"en":63.85,"boy":14.73,"taban":6.625,"px":[5596,1291],"kameraBoy":6,"kamera":null,"oyuncu":[{"x":26.29,"y":10.94,"h":1.7,"w":1.03},{"x":29.11,"y":10.94,"h":1.7,"w":1.03},{"x":31.92,"y":10.94,"h":1.7,"w":1.03},{"x":34.74,"y":10.94,"h":1.7,"w":1.03}],"dusman":[{"tip":"viper","ad":"Uçan Sırça Engereği","hp":800,"fizik":false,"hayalet":false,"x":7.13,"y":18.66,"h":2.69,"w":2.62},{"tip":"zs_vurucu","ad":"Bronz Engerek Muhafızı","hp":760,"fizik":true,"hayalet":false,"x":14.27,"y":10.94,"h":2.4,"w":3.65},{"tip":"zs_vurucu","ad":"Bronz Engerek Muhafızı","hp":760,"fizik":true,"hayalet":false,"x":49.57,"y":10.94,"h":2.4,"w":3.65},{"tip":"viper","ad":"Uçan Sırça Engereği","hp":800,"fizik":false,"hayalet":false,"x":56.72,"y":18.66,"h":2.69,"w":2.62}],"boss":null,"maske":[0,27136,2,511,0,1,2,511,0,1,2,511,0,1,2,511,0,1,2,511,0,1,2,511,0,1,2,511,0,1,2,511,0,1,2,511,0,1,2,511,0,1,2,511,0,1,2,511,0,1,2,511,0,1,2,511,0,1,2,511,0,1,2,511,0,1,2,511,0,1,2,511,0,1,2,511,0,1,2,511,0,1,2,511,0,1,2,511,0,1,2,511,0,1,2,511,0,1,2,511,0,1,2,511,0,1,2,511,0,1,2,511,0,1,2,511,0,1,2,511,0,1,2,511,0,1,2,511,0,1,2,511,0,1,2,511,0,1,2,511,0,77825]}
+    "zumrut-kopru": {"tur":"pve","ad":"Zümrüt Saray Köprüsü","alt":"Yılanlar iki yandan geliyor","ipucu":"Yılanlar iki yandan gelir. Fareyi çevirdiğin yana döner, o yana ateş edersin. Önce yaklaşanı vur.","tema":"sirca","ortam":"spor","sahne":{"ust":"#6fafFd","alt":"#e8f2fb"},"katman":[{"src":"arenalar/zumrut-kopru/sahne.webp","z":-1}],"ppu":87.647,"en":63.85,"boy":14.73,"taban":6.625,"px":[5596,1291],"kameraBoy":6,"kamera":null,"oyuncu":[{"x":26.29,"y":10.94,"h":1.7,"w":1.03},{"x":29.11,"y":10.94,"h":1.7,"w":1.03},{"x":31.92,"y":10.94,"h":1.7,"w":1.03},{"x":34.74,"y":10.94,"h":1.7,"w":1.03}],"dusman":[{"tip":"zs_kucuk","ad":"Sırça Engerek","hp":800,"fizik":true,"hayalet":false,"x":7.13,"y":10.94,"h":2,"w":2.85},{"tip":"zs_vurucu","ad":"Bronz Engerek Muhafızı","hp":760,"fizik":true,"hayalet":false,"x":14.27,"y":10.94,"h":2.4,"w":3.65},{"tip":"zs_vurucu","ad":"Bronz Engerek Muhafızı","hp":760,"fizik":true,"hayalet":false,"x":49.57,"y":10.94,"h":2.4,"w":3.65},{"tip":"zs_kucuk","ad":"Sırça Engerek","hp":800,"fizik":true,"hayalet":false,"x":56.72,"y":10.94,"h":2,"w":2.85}],"boss":null,"maske":[0,27136,2,511,0,1,2,511,0,1,2,511,0,1,2,511,0,1,2,511,0,1,2,511,0,1,2,511,0,1,2,511,0,1,2,511,0,1,2,511,0,1,2,511,0,1,2,511,0,1,2,511,0,1,2,511,0,1,2,511,0,1,2,511,0,1,2,511,0,1,2,511,0,1,2,511,0,1,2,511,0,1,2,511,0,1,2,511,0,1,2,511,0,1,2,511,0,1,2,511,0,1,2,511,0,1,2,511,0,1,2,511,0,1,2,511,0,1,2,511,0,1,2,511,0,1,2,511,0,1,2,511,0,1,2,511,0,1,2,511,0,77825]}
   };
   if (typeof module !== 'undefined' && module.exports) module.exports = ARENA; else kok.EO2_ARENA = ARENA;
 })(typeof window !== 'undefined' ? window : this);

diff --git a/tests/ors_kural.test.js b/tests/ors_kural.test.js
@@ -1,0 +1,45 @@
+'use strict';
+// Kor Örsü kuralları (eo2/js/ors_kural.js): bedeller, bölgeler, tav puanı, sonuçlar, onarım, çarpan.
+const test = require('node:test'), assert = require('node:assert/strict');
+const K = require('../eo2/js/ors_kural.js');
+
+test('bedel ve şans tablosu: on iki kademe, üç bölge; +12 zirvedir', () => {
+  assert.equal(K.sira(12), null);
+  const hepsi = Array.from({ length: 12 }, (_, k) => K.sira(k));
+  assert.deepEqual(hepsi.map(s => s.bolge), ['guvenli', 'guvenli', 'guvenli', 'guvenli', 'harli', 'harli', 'harli', 'cehennem', 'cehennem', 'cehennem', 'cehennem', 'cehennem']);
+  assert.deepEqual(hepsi.map(s => s.sans), [100, 95, 90, 82, 70, 58, 46, 36, 26, 18, 12, 8], 'eski oyunun başarı oranları');
+  assert.deepEqual(hepsi.map(s => s.altin), [40, 80, 140, 220, 320, 480, 680, 950, 1300, 1800, 2500, 3500], 'eski oyunun birinci kademe altın bedelleri');
+  assert.deepEqual(hepsi.map(s => s.tas + '×' + s.adet), ['kor_t1×3', 'kor_t1×6', 'kor_t1×10', 'kor_t1×16', 'kor_t2×5', 'kor_t2×9', 'kor_t2×14', 'kor_t2×20', 'kor_t3×6', 'kor_t3×11', 'kor_t3×18', 'kor_t3×28']);
+});
+
+test('tav: ibrenin yeri darbeyi belirler; körük kumarı ödülü ve cezayı büyütür; şans 1 ile 100 arasında kalır', () => {
+  assert.equal(K.vurus(0.5), 'altin'); assert.equal(K.vurus(0.42), 'altin'); assert.equal(K.vurus(0.35), 'sicak'); assert.equal(K.vurus(0.7), 'sicak'); assert.equal(K.vurus(0.1), 'soguk'); assert.equal(K.vurus(0.95), 'soguk');
+  assert.equal(K.tavPuani(['altin', 'altin', 'altin']), 15); assert.equal(K.tavPuani(['altin', 'sicak', 'soguk']), 4); assert.equal(K.tavPuani(['soguk', 'soguk', 'soguk']), -9);
+  assert.equal(K.tavPuani(['altin', 'altin', 'altin'], true), 27); assert.equal(K.tavPuani(['soguk', 'soguk', 'soguk'], true), -18);
+  assert.equal(K.sans(7, ['altin', 'altin', 'altin']), 51); assert.equal(K.sans(11, ['soguk', 'soguk', 'soguk'], true), 1, 'en az yüzde 1'); assert.equal(K.sans(0, ['altin', 'altin', 'altin'], true), 100, 'en çok yüzde 100');
+});
+
+test('sonuçlar: tutarsa bir kademe; usta işi iki kademe; tutmazsa bölgenin cezası; Anka korur', () => {
+  const s = (k, o) => K.sonuc(k, Object.assign({ vuruslar: ['sicak', 'sicak', 'sicak'], zar: 0 }, o));
+  assert.deepEqual([s(3).kademe, s(3).olay], [4, 'tuttu']);
+  const usta = s(6, { vuruslar: ['altin', 'altin', 'altin'] }); assert.deepEqual([usta.kademe, usta.usta, usta.olay], [8, true, 'usta'], 'usta işi bölge sınırını aşar');
+  assert.equal(s(11, { vuruslar: ['altin', 'altin', 'altin'] }).kademe, 12, '+12 aşılmaz');
+  assert.equal(s(2, { vuruslar: ['altin', 'altin', 'sicak'] }).usta, false, 'üç darbe de altın olmalı');
+  const tutmaz = (k, o) => s(k, Object.assign({ zar: 99.9 }, o));
+  assert.deepEqual([tutmaz(2).kademe, tutmaz(2).catlak, tutmaz(2).olay], [2, false, 'kayipsiz']);
+  assert.deepEqual([tutmaz(5).kademe, tutmaz(5).olay], [4, 'dustu']);
+  assert.deepEqual([tutmaz(9).kademe, tutmaz(9).catlak, tutmaz(9).olay], [9, true, 'catladi']);
+  assert.deepEqual([tutmaz(5, { anka: true }).kademe, tutmaz(5, { anka: true }).anka, tutmaz(5, { anka: true }).olay], [5, true, 'anka']);
+  assert.deepEqual([tutmaz(9, { anka: true }).catlak, tutmaz(9, { anka: true }).olay], [false, 'anka']);
+  assert.equal(s(9, { anka: true }).anka, false, 'deneme tutarsa Anka harcanmış sayılmaz (ekran taşı yine de peşin alır)');
+  assert.equal(tutmaz(2, { anka: true }).anka, false, 'güvenli bölgede Anka gerekmez');
+  // zar şansın tam üstündeyse tutmaz, hemen altındaysa tutar
+  assert.equal(K.sonuc(4, { vuruslar: [], zar: 69.99 }).tuttu, true); assert.equal(K.sonuc(4, { vuruslar: [], zar: 70 }).tuttu, false);
+});
+
+test('onarım dört kademe geri alır (en az +4); çarpan kademe başına yüzde 2, çatlak topta 1', () => {
+  assert.equal(K.onarilmis(7), 4); assert.equal(K.onarilmis(9), 5); assert.equal(K.onarilmis(11), 7);
+  assert.equal(K.carpan({ kademe: 0 }), 1); assert.equal(K.carpan({ kademe: 5 }), 1.1); assert.equal(K.carpan({ kademe: 12 }), 1.24);
+  assert.equal(K.carpan({ kademe: 12, catlak: true }), 1); assert.equal(K.carpan(null), 1); assert.equal(K.carpan({ kademe: 99 }), 1.24);
+  assert.equal(K.AD(0), 'Ejder Topu'); assert.equal(K.AD(7), 'Kor Ejder Topu'); assert.equal(K.AD(12), 'Kadim Magma Topu');
+});

diff --git a/eo2/js/pazar.js b/eo2/js/pazar.js
@@ -8,7 +8,7 @@
   const SLOT_AD = { bas: 'Baş', govde: 'Gövde', pence: 'Pençe', tilsim: 'Tılsım' };
   /* Usta Kerim'in karşılaması: eski oyunun sözü terbiyeci pusatı dövmeyi ve kalıp birleştirmeyi vaat ediyordu; o sistem (Kor Örsü) 2.0'da
      kurulmadı. Oyuncu olmayan bir şeyi aramasın diye söz, tezgâhın bugün gerçekten yaptığı işi söyler (ejderha kuşamı alım satımı). */
-  if (typeof VENDORS !== 'undefined' && VENDORS.demir) VENDORS.demir.greet = ['Örsüm kor, çekicim ağır! Ejderhana baş, gövde, pençe ve tılsım kuşamı döverim; elindekini de iyi fiyata alırım.', 'Kuşam ejderhanın boyuna göre seçilir evlat; almadan önce künyesine bak.'];
+  if (typeof VENDORS !== 'undefined' && VENDORS.demir) VENDORS.demir.greet = ['Örsüm kor, çekicim ağır! Ejderhana kuşam satarım; Ejder Topu\'nu da Kor Örsü\'nde döverim. Kor taşın varsa gel.', 'Anka Mührü olmadan cehennem kademesine çekiç vurma evlat; top çatlar!'];
   const itemInfo = it => [it.atk ? 'saldırı +' + it.atk : '', it.def ? 'savunma +' + it.def : '', it.hp ? 'can +' + it.hp : '', it.crit ? 'kritik +' + it.crit : '', it.dodge ? 'kaçınma +' + it.dodge : ''].filter(Boolean).join(' · ') || (it.d || '');
   G.itemInfo = itemInfo; G.SLOT_AD = SLOT_AD;
   let stall = 'ejder';
@@ -52,8 +52,10 @@
         (L.length ? '<div class="pz-mallar kay">' + L.map((x, i) => '<button type="button" class="mal2 t' + x.tier + (x.kilit ? ' kilitli' : '') + '" data-key="' + x.key + '" aria-pressed="' + (x.key === cur.key) + '" style="animation-delay:' + Math.min(i * 0.04, 0.4) + 's' + (x.el ? ';--k1:color-mix(in srgb,' + G.ELC[x.el] + ' 45%,#1c2238);--k2:color-mix(in srgb,' + G.ELC[x.el] + ' 75%,#5a6278)' : '') + '"><span class="res"><img alt="" src="' + x.img + '"' + (x.fb ? ' onerror="this.onerror=null;this.src=\'' + x.fb + '\'"' : '') + '>' + (x.muhur ? '<i class="tz-muhur ' + x.muhurCls + '">' + x.muhur + '</i>' : '') + '</span><b>' + esc(x.ad) + '</b><small>' + esc(x.alt) + '</small><em class="' + (x.sat ? 'sat' : yetmez(x) ? 'pahali' : '') + '">' + x.fiyat + '</em></button>').join('') + '</div>' +
           '<div class="pz-kunye"><div><h3>' + esc(cur.ad) + '</h3><p>' + (cur.kilit || cur.d) + '</p></div><button type="button" class="gbtn buyuk ' + (cur.sat ? 'kor' : 'altin') + '" id="pzAl" ' + (yok ? 'disabled' : '') + '>' + cur.btn + '<small>' + (cur.sat ? '+' : '') + cur.fiyat + ' altın' + (!cur.sat && yetmez(cur) ? ' · yetmiyor' : '') + '</small></button></div>'
           : '<p class="ah-not">' + (BOS[stall][mod === 'sat' ? 1 : 0] || 'Tezgâh boş.') + '</p>') + '</div>' +
+      (stall === 'demir' && EO2.ors ? '<button type="button" class="gbtn altin pz-ors" data-ors="1">Kor Örsü<small>Ejder Topu\'nu döv · +' + EO2.ors.durum().kademe + (EO2.ors.durum().catlak ? ' · çatlak' : '') + '</small></button>' : '') +
       '<div class="kadro pz-tezgah">' + ['ejder', 'yumurta', 'yem', 'demir', 'kan'].filter(k => VENDORS[k]).map(k => '<button type="button" class="madalyon" data-stall="' + k + '" aria-pressed="' + (k === stall) + '" title="' + VENDORS[k].ad + '"><img alt="" src="' + G.npcImg(VENDORS[k].npc) + '"><span>' + VENDORS[k].tabela + '</span></button>').join('') + '</div>';
     on(body, '[data-stall]', b => { stall = b.dataset.stall; UI.vsay = null; sec = null; mod = 'al'; render(); }); on(body, '[data-mod]', b => { mod = b.dataset.mod; sec = null; render(); });
+    on(body, '[data-ors]', () => G.open('ors'));
     on(body, '[data-icen]', b => { UI.sel = +b.dataset.icen; render(); });
     on(body, '[data-key]', b => { sec = b.dataset.key; render(); }); on(body, '#pzAl', () => { if (cur) cur.go(); });
   } });

diff --git a/eo2/js/topcu.js b/eo2/js/topcu.js
@@ -20,8 +20,8 @@
     const gu = Math.max(10, +st.gu || 68), ce = Math.max(10, +st.ce || 66), da = Math.max(10, +st.da || 68), ze = Math.max(10, +st.ze || 66), bond = Math.max(0, Math.min(100, star.bond != null ? +star.bond : 75)), gen = Math.max(1, star.gen != null ? +star.gen : 2);
     const hpBonus = Math.round(da * 3.5 + bond * 2.4 + gen * 45), staBonus = Math.round(ce * 0.25 + bond * 0.14 + gen * 3), crit = Math.min(48, Math.round(ze * 0.18 + ce * 0.10 + bond * 0.08 + gen * 2)), dmgPct = Math.round(gu * 0.15 + bond * 0.08 + gen * 3);
     const dmg = Math.round(210 * (pve ? 1.40 : 1.0) * (sofra() ? 1.15 : 1.0) * (1 + dmgPct * 0.005));      // 1,40: yoldaşsız sefer çarpanı (eski soloMult)
-    const P = EO2.api.player;
-    return { ad: P.name || 'Terbiyeci', set: P.set, hp: 1350 + hpBonus, sta: 100 + staBonus + 25 + (sofra() ? 25 : 0), rage: 40, revive: 1, dmg, el: star.el || 'ates', el2: star.el2 || null, crit, ejder: star.name };
+    const P = EO2.api.player, ors = EO2.ors ? EO2.ors.carpan() : 1;   // Kor Örsü: Ejder Topu'nun kademesi (kademe başına yüzde 2; çatlak topta artış yok)
+    return { ad: P.name || 'Terbiyeci', set: P.set, hp: Math.round((1350 + hpBonus) * ors), sta: 100 + staBonus + 25 + (sofra() ? 25 : 0), rage: 40, revive: 1, dmg: Math.round(dmg * ors), el: star.el || 'ates', el2: star.el2 || null, crit, ejder: star.name };
   }
 
   /* ================= ÖDÜL: yerel kayda (S) yazan tek fonksiyon =================

diff --git a/eo2/js/zumrut_yilan_veri.js b/eo2/js/zumrut_yilan_veri.js
@@ -1,3 +1,3 @@
 /* ÜRETİLMİŞ DOSYA: elle değiştirme. Üreten: node eo2/tools/zumrut_yilan.mjs · Zümrüt Saray yer yılanlarının canlandırma sayfası ölçüleri
    dizin: klip → [ilk kare, kare sayısı] · px, py: hücrede ayak noktası · agiz: ağzın ayak noktasına göre yeri (sola, yukarı; kaynak piksel) */
-window.EO2_YILAN = {"vurucu":{"src":"assets/zumrut/yilan_vurucu_anim.webp","cw":677,"ch":371,"sutun":8,"px":424,"py":339,"dizin":{"idle":[0,15],"move":[15,8],"attack":[23,16],"hit":[39,7],"death":[46,16]},"agiz":[299,151]},"agir":{"src":"assets/zumrut/yilan_agir_anim.webp","cw":847,"ch":449,"sutun":8,"px":527,"py":418,"dizin":{"idle":[0,15],"move":[15,8],"attack":[23,16],"hit":[39,7],"death":[46,16]},"agiz":[375,199]}};
+window.EO2_YILAN = {"vurucu":{"src":"assets/zumrut/yilan_vurucu_anim.webp","cw":677,"ch":371,"sutun":8,"px":424,"py":339,"dizin":{"idle":[0,15],"move":[15,8],"attack":[23,16],"hit":[39,7],"death":[46,16]},"agiz":[299,151]},"agir":{"src":"assets/zumrut/yilan_agir_anim.webp","cw":847,"ch":449,"sutun":8,"px":527,"py":418,"dizin":{"idle":[0,15],"move":[15,8],"attack":[23,16],"hit":[39,7],"death":[46,16]},"agiz":[375,199]},"kucuk":{"src":"assets/zumrut/yilan_kucuk_anim.webp","cw":502,"ch":300,"sutun":8,"px":323,"py":283,"dizin":{"idle":[0,15],"move":[15,8],"attack":[23,16],"hit":[39,7],"death":[46,16]},"agiz":[207,128]}};

diff --git a/eo2/js/topcu_veri.js b/eo2/js/topcu_veri.js
@@ -150,6 +150,7 @@
         if (a.yuruT != null && t - a.yuruT < 0.8) return kl('move', (t - a.yuruT) / 0.8); return Y.dizin.idle[0] + Math.floor(t * 7.5 + a.x) % Y.dizin.idle[1]; } } }); };
   B.MOB.zs_vurucu = yilan('vurucu', 'assets/zumrut/yilan_vurucu.webp');
   B.MOB.zs_agir = yilan('agir', 'assets/zumrut/yilan_agir.webp');
+  B.MOB.zs_kucuk = yilan('kucuk', 'assets/zumrut/yilan_kucuk.webp');   // köprünün uçlarındaki küçük yılan (uçan engereğin yerine: uçan engerek hiçbir zaman olmayacak)
   for (const k in B.BOSS) { const D = B.BOSS[k]; if (D.ek) D.ek.forEach((e, i) => { D.spr['ek' + i] = e; }); }
 
   /* ---------- deniz ve dalga çizimi (Batık Donanma) ---------- */

diff --git a/eo2/js/rehber.js b/eo2/js/rehber.js
@@ -79,6 +79,7 @@
   const IPUCU = {
     ejderhalar: 'Her ejderhaya bir emir ver. Emirler hafta sonunda işlenir.',
     /* ipucu sekme değişince ekranda kalır: her sekmede doğru olan söz (Er Meydanı ödülsüzdür) */
+    ors: 'Bedeli öde, ibre altın kora gelince çekici indir. Üç darbe; kademe yükseldikçe risk büyür.',
     arena: 'Bir rakip seç ve Meydan oku. Arenalar ün ve altın getirir; Er Meydanı dostça oynanır.',
     yuva: 'İki yetişkini gezintiye çıkar; yakınlaştıkça çiftleşebilirler.',
     pazar: 'Bir tezgâh seç. Yem, yumurta ve kuşam burada satılır.',

diff --git a/eo2/index.html b/eo2/index.html
@@ -210,6 +210,8 @@
 <script src="js/zindan_ortak.js"></script>
 <script src="js/takim.js"></script>
 <script src="js/gorunum.js"></script>
+<script src="js/ors_kural.js"></script>
+<script src="js/ors.js"></script>
 <!--/BODY-->
 </body>
 </html>
